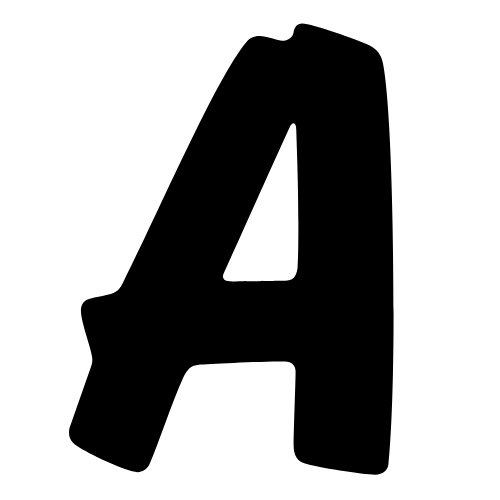
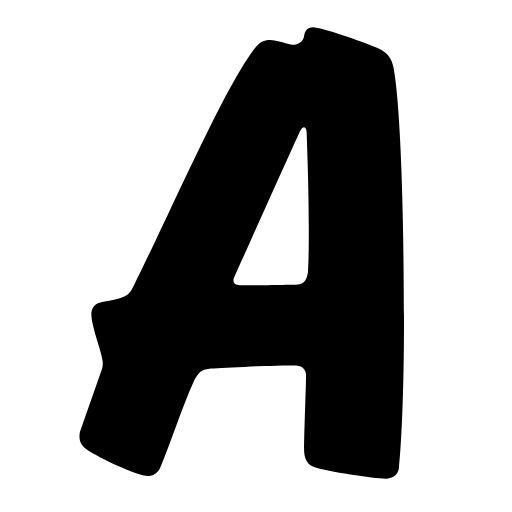
Add feature graphic and new images for workout management

diff --git a/README.md b/README.md
@@ -4,6 +4,8 @@ Create structured workouts with blocks, exercises, sets, reps, and rest interval
 
 Built with **Expo SDK 54**, **React Native 0.81**, **TypeScript**, **NativeWind/Tailwind**, **Zustand**, and **expo-sqlite**.
 
+![Feature Graphic](/assets/images/feature-graphic.jpg)
+
 ## Features
 
 ### Workout Management
